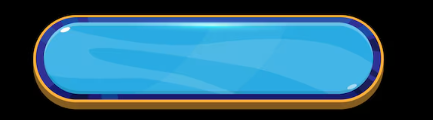
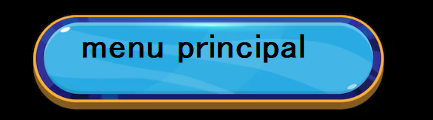
PAUSA

Changed region(s): [[0.1801, 0.275, 0.7206, 0.525], [0.5704, 0.275, 0.6005, 0.325], [0.4804, 0.275, 0.5104, 0.325]]

diff --git a/AlienRush/MenuPausa.js b/AlienRush/MenuPausa.js
@@ -11,18 +11,25 @@ var MenuPausa = new Phaser.Class({
     },
 
     preload: function () {
-        this.load.image('fondoPause', 'assets/MenuPausa/fondoPausa.png');
+        this.load.image('fondoPausa', 'assets/MenuPausa/fondoPausa.png');
         this.load.image('botonReanudar', 'assets/MenuPausa/BotonReanudar.png');
         this.load.image('botonMenu', 'assets/MenuPausa/BotonMenu.png');
-        this.load.image('botonOpciones', 'assets/MenuPausa/BotonOpciones.png');
     },
 
     create: function () {
-        // Fondo del menú de pausa
-        this.add.image(400, 300, 'fondoPause');
-
-        // Botón de Reanudar
-        let botonReanudar = this.add.image(400, 300, 'botonReanudar').setInteractive();
+         /************************* FONDO *************************/
+        //IMAGEN
+        this.add.image(875, 440, 'fondoPausa');
+        //AUDIO
+        
+        
+        /************************* VARIABLES *************************/
+        let botonReanudar = this.add.image(875, 440, 'botonReanudar')       
+        let botonMenu = this.add.image(875, 590, 'botonMenu')
+        
+        /************************* BOTONES *************************/
+        //REANUDAR
+        botonReanudar.setInteractive();
         botonReanudar.on('pointerdown', () => {
             console.log("Reanudando MainGame...");
             this.scene.resume('MainGame');
@@ -30,21 +37,12 @@ var MenuPausa = new Phaser.Class({
             this.scene.stop('MenuPausa');
         });
 
-        // Botón de Menú Principal
-        let botonMenu = this.add.image(400, 400, 'botonMenu').setInteractive();
+        //MENU       
+        botonMenu.setInteractive();
         botonMenu.on('pointerdown', () => {
             console.log("Regresando al menú principal...");
-            this.musica.stop();
             this.scene.stop('MainGame');
             this.scene.start('MenuScene');  // Volver al menú principal
-        });
-
-        // Botón de Opciones
-        let botonOpciones = this.add.image(400, 500, 'botonOpciones').setInteractive();
-        botonOpciones.on('pointerdown', () => {
-            console.log("Abriendo Opciones desde PauseMenu...");
-            this.scene.launch('OpcionesPausa', { musica: this.musica });
-            this.scene.pause();  // Pausa la escena actual (MenuPausa) y abre OpcionesPausa
         });
 
     }

diff --git a/AlienRush/MainGame.js b/AlienRush/MainGame.js
@@ -50,7 +50,7 @@ var MainGame = new Phaser.Class({
 
     create: function () {
[1 lines of base64/hex data omitted]
-        Vacas = []; // Crea el grupo de monedas
+        Vacas = []; 
         PowerUps = [];
         Humanos = [];
         paused = false;
